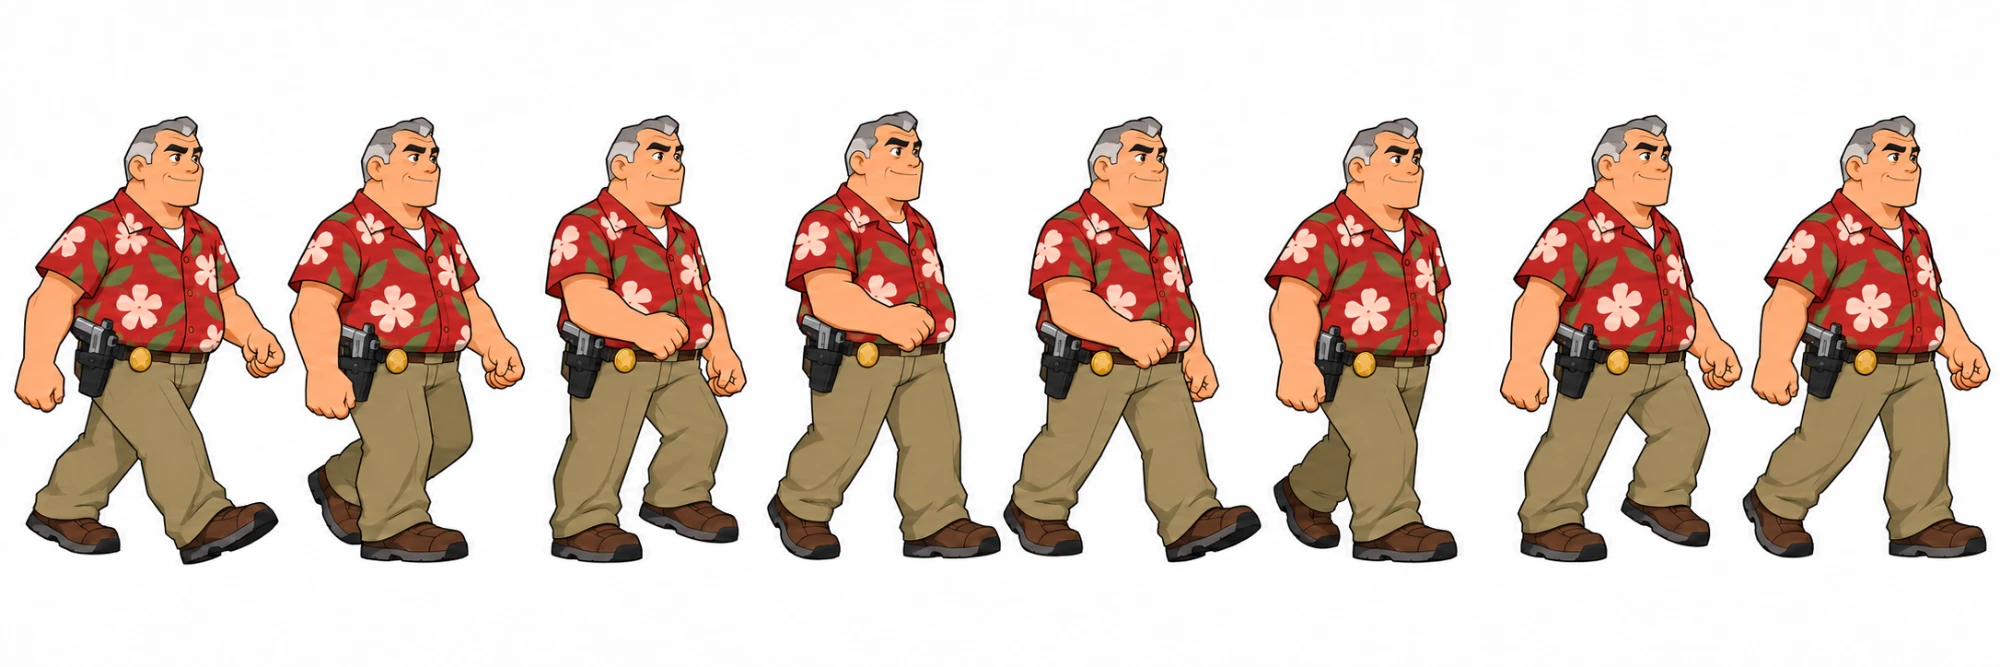
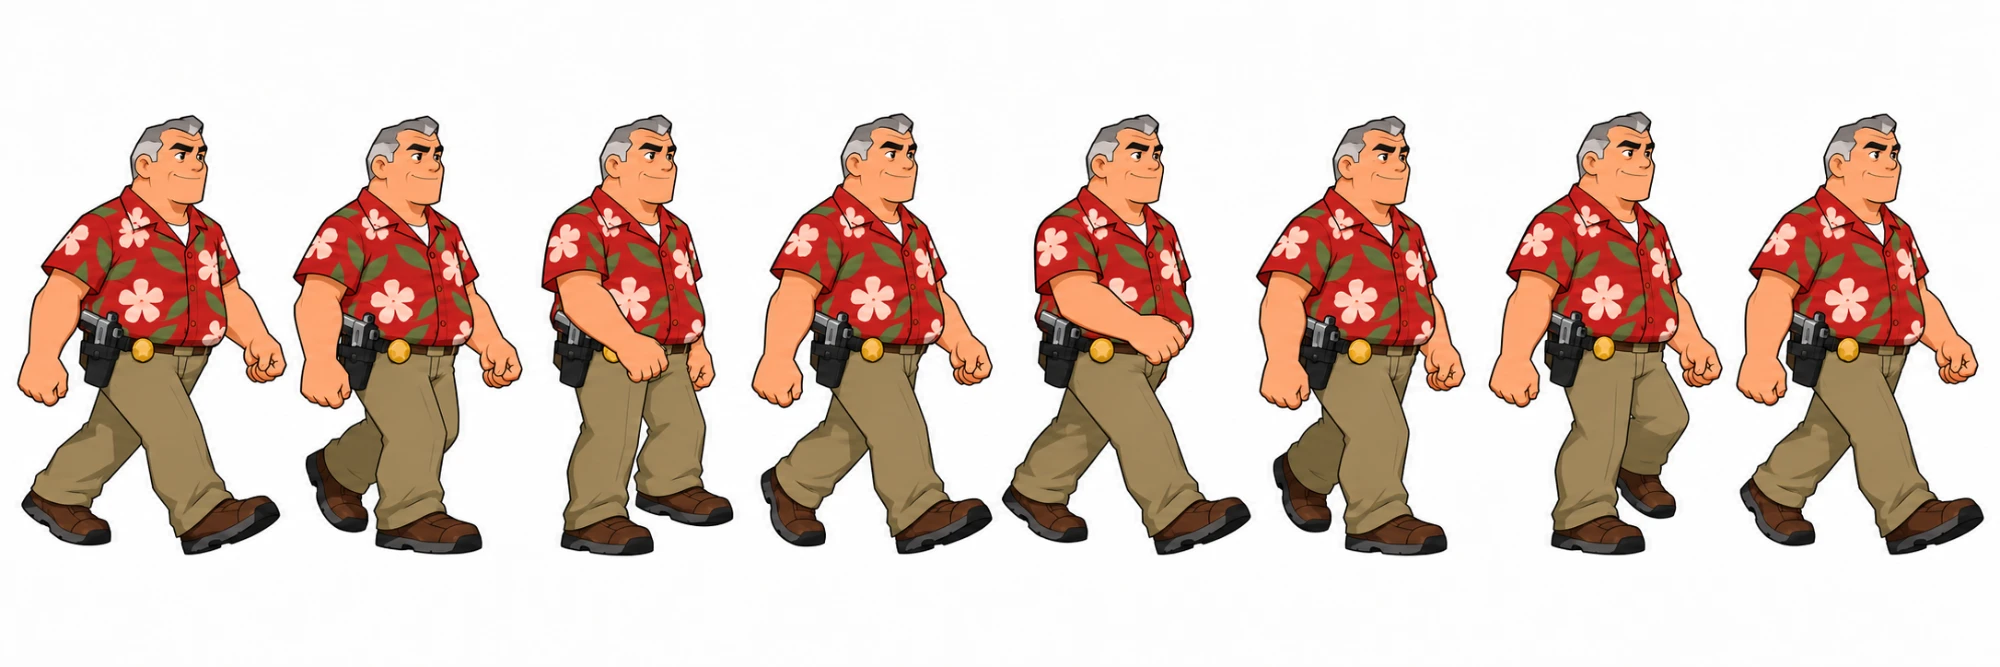
Max walks from the owner's second walk sheet: his arms swap from stride to stride
Claude-Session: https://claude.ai/code/session_013Hp8tSqP8vgSn4FCMe6iiY

Changed region(s): [[0.0, 0.1499, 1.0, 0.8696]]

diff --git a/src/scenes/preload/cartoon/cutout/maxFrames.ts b/src/scenes/preload/cartoon/cutout/maxFrames.ts
@@ -7,20 +7,20 @@ export const MAX_FRAMES: CutoutMeta = {
   texel: 5,
   scale: 17.7,
   headScale: 1,
-  width: 948,
+  width: 958,
   height: 195,
   joints: {},
   frames: {
     "body:side": {"x": 102, "y": 2, "w": 62, "h": 191, "px": 30.19, "py": 190.11},
     "body:stand": {"x": 2, "y": 2, "w": 98, "h": 191, "px": 44.89, "py": 190.11},
-    "body:walk0": {"x": 166, "y": 2, "w": 110, "h": 180, "px": 53.54, "py": 178.36},
-    "body:walk1": {"x": 666, "y": 2, "w": 96, "h": 179, "px": 42.97, "py": 177.18},
-    "body:walk2": {"x": 475, "y": 2, "w": 82, "h": 180, "px": 36.98, "py": 177.97},
-    "body:walk3": {"x": 378, "y": 2, "w": 95, "h": 180, "px": 43.75, "py": 178.36},
-    "body:walk4": {"x": 559, "y": 2, "w": 105, "h": 179, "px": 47.12, "py": 177.18},
-    "body:walk5": {"x": 764, "y": 2, "w": 79, "h": 179, "px": 43.29, "py": 177.18},
-    "body:walk6": {"x": 278, "y": 2, "w": 98, "h": 180, "px": 47.69, "py": 177.57},
-    "body:walk7": {"x": 845, "y": 2, "w": 101, "h": 178, "px": 50.56, "py": 175.99},
+    "body:walk0": {"x": 659, "y": 2, "w": 111, "h": 180, "px": 54.76, "py": 178.55},
+    "body:walk1": {"x": 772, "y": 2, "w": 95, "h": 180, "px": 42.69, "py": 178.55},
+    "body:walk2": {"x": 577, "y": 2, "w": 80, "h": 181, "px": 37.84, "py": 179.36},
+    "body:walk3": {"x": 475, "y": 2, "w": 100, "h": 181, "px": 48.48, "py": 178.95},
+    "body:walk4": {"x": 265, "y": 2, "w": 103, "h": 181, "px": 46.45, "py": 178.95},
+    "body:walk5": {"x": 869, "y": 2, "w": 87, "h": 180, "px": 43.1, "py": 178.55},
+    "body:walk6": {"x": 166, "y": 2, "w": 97, "h": 182, "px": 48.04, "py": 180.16},
+    "body:walk7": {"x": 370, "y": 2, "w": 103, "h": 181, "px": 47.11, "py": 179.36},
   },
   bends: {},
 };

diff --git a/scripts/cutout/max_frames.py b/scripts/cutout/max_frames.py
@@ -1,6 +1,7 @@
 # Grandpa Max frame by frame: every pose is one of his generated drawings (see frames.py).
 # Sheets: his model sheet (the three-quarter view, for standing; the side view)
-# and his walk cycle (8 frames).
+# and his walk cycle (8 frames, the owner's second walk sheet: his arms swap between frames 1 and 5 and 3 and 7;
+# 2 and 6, 4 and 8 share a leg, which reads fine with both trouser legs alike).
 
 ID = 'max'
 TEXEL = 5
@@ -16,9 +17,9 @@ HAIR = (146, 138, 134)
 SHIRT = (189, 49, 43)
 SKIN = (250, 173, 121)
 # The walk sheet draws him stockier than the model sheet (a head 13% bigger for his body), and his
-# grey hair matches the gun on his belt: scaled between his head (x1.32) and his height (x1.49), so
+# grey hair matches the gun on his belt: scaled between his head (x1.35) and his height (x1.52), so
 # neither jumps more than 6% when he stops walking.
-SHEET_SCALE = {'model': 1.0, 'walk': 1.40}
+SHEET_SCALE = {'model': 1.0, 'walk': 1.43}
 
 FRAMES = {
     'stand': ('model', 1), 'side': ('model', 2),

diff --git a/docs/ch7-wip.md b/docs/ch7-wip.md
@@ -16,7 +16,7 @@ Uncommitted at handoff time: nothing (the Deepmaw rig and manifest were committe
 
 ## Still to do, in order
 
-0. **Frame by frame, from the owner's animation sheets** (DECISIONS.md, "Characters drawn frame by frame"). Every pose is one of the owner's ChatGPT drawings played as it is; nothing is cut or bent (the owner rejected the cut-out puppets below: "feels like pieces"). **Done: Ben** (`scripts/cutout/ben_frames.py`, clips `BEN_FRAME_CLIPS` in `characters/ben.ts`: idle, run, jump, fall, land, punch, hurt, roll, defeat, watch, slam, swim, tread, drown and eight story poses). **Started: Gwen, Max, Kevin** (`scripts/cutout/<id>_frames.py`, `<ID>_FRAME_CLIPS`): their cycles (Gwen's and Kevin's 8-frame runs, Max's 8-frame walk; Gwen's run is the owner's second run sheet, whose legs swap and body doesn't twist). **Gwen is done** except swimming and looking at her hands: her action and story-pose sheets are in (`gwen-action-poses.webp`, `gwen-story-poses.webp`), 16 of her 23 animations play her own drawings. In Chapter 7 Gwen and Max strike their talk drawing while their line plays (`plumber/story/talkers.ts`), and a family actor in an HD chapter can take any pose its rig has, even one its pixel sheet lacks (`FamilyActor.show`) and the model sheets' standing drawings (Max's side view at the console, Kevin's absorbing pose); every other pose borrows the standing drawing until these arrive (the prompts are in the "Animation Sheet Prompts" artifact, see PROGRESS): an 8-pose action sheet each (Gwen: stand, jump, fall, land, hurt, cast spell with a pink-purple ball, arms folded, talking; Max: stand, at a console, firing a blaster one-handed, holding up his badge, salute, talking, cheering, surprised; Kevin: smirk, absorbing (hands glowing purple), wind-up, throw, lunge, laughing, hurt, jumping) and a story-pose sheet for Gwen and Max (talk, point, shrug, surprised, cheer, think, wave, worried), each made from the character's cycle sheet so the proportions match (DECISIONS.md, "A size jump between sheets"). When they land: add them to `SHEETS`/`FRAMES` (scale them like the cycle sheet: `frames.py` prints the head and hair ratios), give each clip its drawing, and drop the borrowed ones. Their cycles play at the rate their speed needs (`config/cartoon/gait.ts`): move them near those speeds in the set pieces.
+0. **Frame by frame, from the owner's animation sheets** (DECISIONS.md, "Characters drawn frame by frame"). Every pose is one of the owner's ChatGPT drawings played as it is; nothing is cut or bent (the owner rejected the cut-out puppets below: "feels like pieces"). **Done: Ben** (`scripts/cutout/ben_frames.py`, clips `BEN_FRAME_CLIPS` in `characters/ben.ts`: idle, run, jump, fall, land, punch, hurt, roll, defeat, watch, slam, swim, tread, drown and eight story poses). **Started: Gwen, Max, Kevin** (`scripts/cutout/<id>_frames.py`, `<ID>_FRAME_CLIPS`): their cycles (Gwen's and Kevin's 8-frame runs, Max's 8-frame walk; Gwen's run is the owner's second run sheet, whose legs swap and body doesn't twist). **Gwen is done** except swimming and looking at her hands: her action and story-pose sheets are in (`gwen-action-poses.webp`, `gwen-story-poses.webp`), 16 of her 23 animations play her own drawings. Max walks from the owner's second walk sheet (his arms swap; the stride measures 3.5 px a drawing, within 4% of the old one, so `GAIT.max` stays). In Chapter 7 Gwen and Max strike their talk drawing while their line plays (`plumber/story/talkers.ts`), and a family actor in an HD chapter can take any pose its rig has, even one its pixel sheet lacks (`FamilyActor.show`) and the model sheets' standing drawings (Max's side view at the console, Kevin's absorbing pose); every other pose borrows the standing drawing until these arrive (the prompts are in the "Animation Sheet Prompts" artifact, see PROGRESS): an 8-pose action sheet each (Gwen: stand, jump, fall, land, hurt, cast spell with a pink-purple ball, arms folded, talking; Max: stand, at a console, firing a blaster one-handed, holding up his badge, salute, talking, cheering, surprised; Kevin: smirk, absorbing (hands glowing purple), wind-up, throw, lunge, laughing, hurt, jumping) and a story-pose sheet for Gwen and Max (talk, point, shrug, surprised, cheer, think, wave, worried), each made from the character's cycle sheet so the proportions match (DECISIONS.md, "A size jump between sheets"). When they land: add them to `SHEETS`/`FRAMES` (scale them like the cycle sheet: `frames.py` prints the head and hair ratios), give each clip its drawing, and drop the borrowed ones. Their cycles play at the rate their speed needs (`config/cartoon/gait.ts`): move them near those speeds in the set pieces.
 
    How, per character:
    - Save each sheet as `docs/art-refs/<id>-<run-cycle|walk-cycle|action-poses|story-poses>.webp` (attached images arrive under the session's `images/` folder). Check it first: whole bodies, same size, signature details kept (Gwen's cat clip and cat shirt, Max's holster and flower shirt, Kevin's grey under-sleeves). A run cycle's legs should swap sides between frames 1-4 and 5-8 (look at which leg is drawn in front, and which arm); ChatGPT often repeats the first half instead, which still plays when both legs look alike. One bad frame can be replaced by holding its neighbour (Ben's fourth run frame). Compare the head's size with the model sheet's: the cycle sheets come out stockier (`SHEET_SCALE`).
